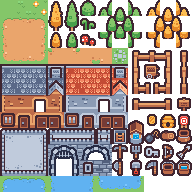
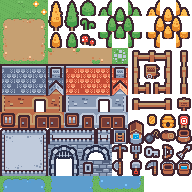
Melhora o terreno: grama mais rica com textura + terra suave
O Tiny Town tinha grama chapada (um verde só) e terra laranja viva. O
pipeline agora recolore (por cor exata, sem tocar árvores/props):
- grama -> verde mais natural com dither sutil (tira a chapação);
- terra -> tom terroso suave (menos laranja).
Água do lago passa a ser derivada dos tiles já melhorados (bordas casam).

build ok.

diff --git a/scripts/build_tiles.py b/scripts/build_tiles.py
@@ -2,17 +2,19 @@
 """
 Pawlands world tileset pipeline.
 
-Kenney's "Tiny Town" (CC0) has no water tiles, and mixing another Kenney pack
-clashes with its chunky style. So we derive water in Tiny Town's OWN style:
-recolor its grass->dirt autotile (the rounded patch) from tan to blue. The 9
-recolored tiles are appended as a new row, giving a grass->water autotile that
-blends perfectly.
+Takes Kenney's "Tiny Town" (CC0) and produces public/tiles/tiny_town.png:
+
+  1. Enhances the flat terrain palette — a richer grass with a subtle texture
+     dither (kills the "flat plastic" look) and a softer, less-orange dirt.
+  2. Derives water in Tiny Town's own style: recolors the grass->dirt autotile
+     from tan to blue, appended as a new row (grass->water autotile). Water is
+     built from the ENHANCED tiles so pond edges match the new grass.
 
 Run once (the raw Tiny Town pack lives in assets/, git-ignored):
 
     python scripts/build_tiles.py
 
-Output: public/tiles/tiny_town.png  (base sheet + appended water autotile row)
+Output: public/tiles/tiny_town.png
 Requires: Pillow
 """
 import colorsys
@@ -25,10 +27,50 @@ OUT = os.path.join(ROOT, "public", "tiles", "tiny_town.png")
 
 COLS = 12
 TILE = 16
-# Tiny Town grass->dirt autotile (rounded patch): 3x3 of corners/edges/center.
 DIRT_AUTOTILE = [12, 13, 14, 24, 25, 26, 36, 37, 38]
 
+# --- palette enhancement (exact-color remap, so trees/props are untouched) ---
+GRASS = (132, 198, 105)
+GRASS_HI = (139, 216, 125)
+GRASS_LO = (101, 165, 86)
+DIRT = (234, 165, 108)
 
+NEW_GRASS = (108, 182, 94)
+NEW_GRASS_SHADE = (96, 168, 84)  # subtle texture dither
+NEW_GRASS_HI = (126, 198, 110)
+NEW_GRASS_LO = (88, 150, 78)
+NEW_DIRT = (198, 160, 114)
+
+
+def grass_textured(x, y):
+    # deterministic sparse dither by in-tile position -> consistent & seamless
+    return NEW_GRASS_SHADE if ((x % TILE) * 3 + (y % TILE) * 7) % 13 < 2 else NEW_GRASS
+
+
+def enhance(sheet):
+    px = sheet.load()
+    out = Image.new("RGBA", sheet.size, (0, 0, 0, 0))
+    op = out.load()
+    for y in range(sheet.height):
+        for x in range(sheet.width):
+            r, g, b, a = px[x, y]
+            if a == 0:
+                continue
+            rgb = (r, g, b)
+            if rgb == GRASS:
+                op[x, y] = (*grass_textured(x, y), a)
+            elif rgb == GRASS_HI:
+                op[x, y] = (*NEW_GRASS_HI, a)
+            elif rgb == GRASS_LO:
+                op[x, y] = (*NEW_GRASS_LO, a)
+            elif rgb == DIRT:
+                op[x, y] = (*NEW_DIRT, a)
+            else:
+                op[x, y] = (r, g, b, a)
+    return out
+
+
+# --- water derivation ---
 def is_dirt(r, g, b):
     h, s, _ = colorsys.rgb_to_hsv(r / 255, g / 255, b / 255)
     return s > 0.18 and 12 <= h * 360 <= 58
@@ -40,7 +82,7 @@ def to_water(r, g, b):
     return int(nr * 255), int(ng * 255), int(nb * 255)
 
 
-def recolor_tile(sheet, index):
+def recolor_to_water(sheet, index):
     sx, sy = (index % COLS) * TILE, (index // COLS) * TILE
     src = sheet.crop((sx, sy, sx + TILE, sy + TILE))
     px = src.load()
@@ -56,20 +98,22 @@ def recolor_tile(sheet, index):
 
 
 def main():
-    sheet = Image.open(SRC).convert("RGBA")
+    original = Image.open(SRC).convert("RGBA")
+    sheet = enhance(original)
     rows = sheet.height // TILE
-    # extend by one row for the water autotile (indices rows*COLS ..)
+
     extended = Image.new("RGBA", (sheet.width, sheet.height + TILE), (0, 0, 0, 0))
     extended.paste(sheet, (0, 0))
     base = rows * COLS
     for offset, index in enumerate(DIRT_AUTOTILE):
-        water = recolor_tile(sheet, index)
+        water = recolor_to_water(sheet, index)  # from enhanced tiles -> matching edges
         col = (base + offset) % COLS
         extended.alpha_composite(water, (col * TILE, rows * TILE))
+
     os.makedirs(os.path.dirname(OUT), exist_ok=True)
     extended.save(OUT)
     print(f"Wrote {OUT} ({extended.width}x{extended.height}); "
-          f"water autotile at indices {base}..{base + len(DIRT_AUTOTILE) - 1}")
+          f"grass/dirt enhanced; water autotile at indices {base}..{base + len(DIRT_AUTOTILE) - 1}")
 
 
 if __name__ == "__main__":
